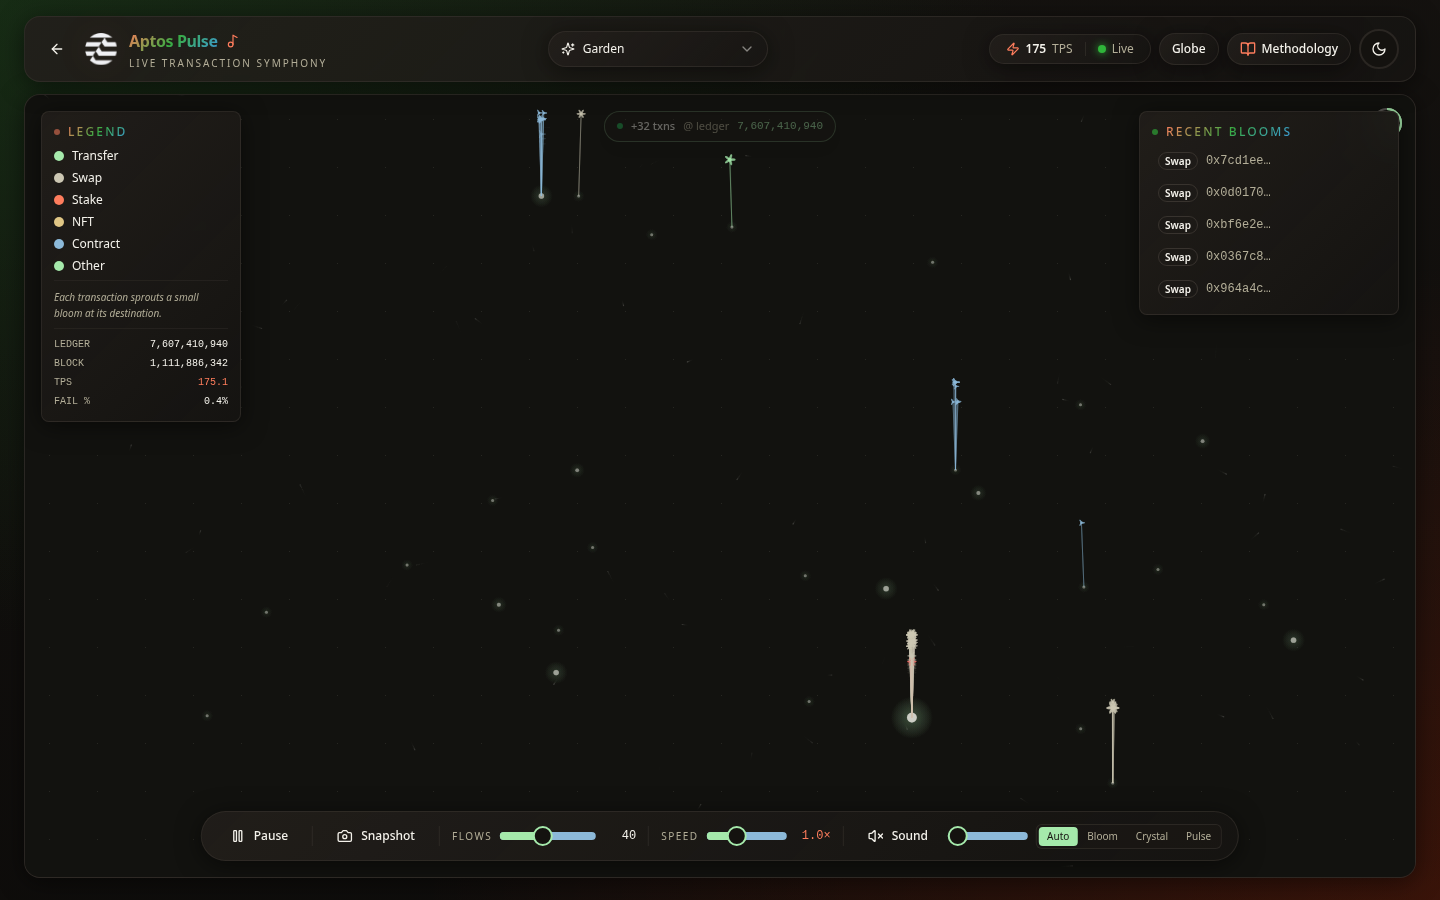
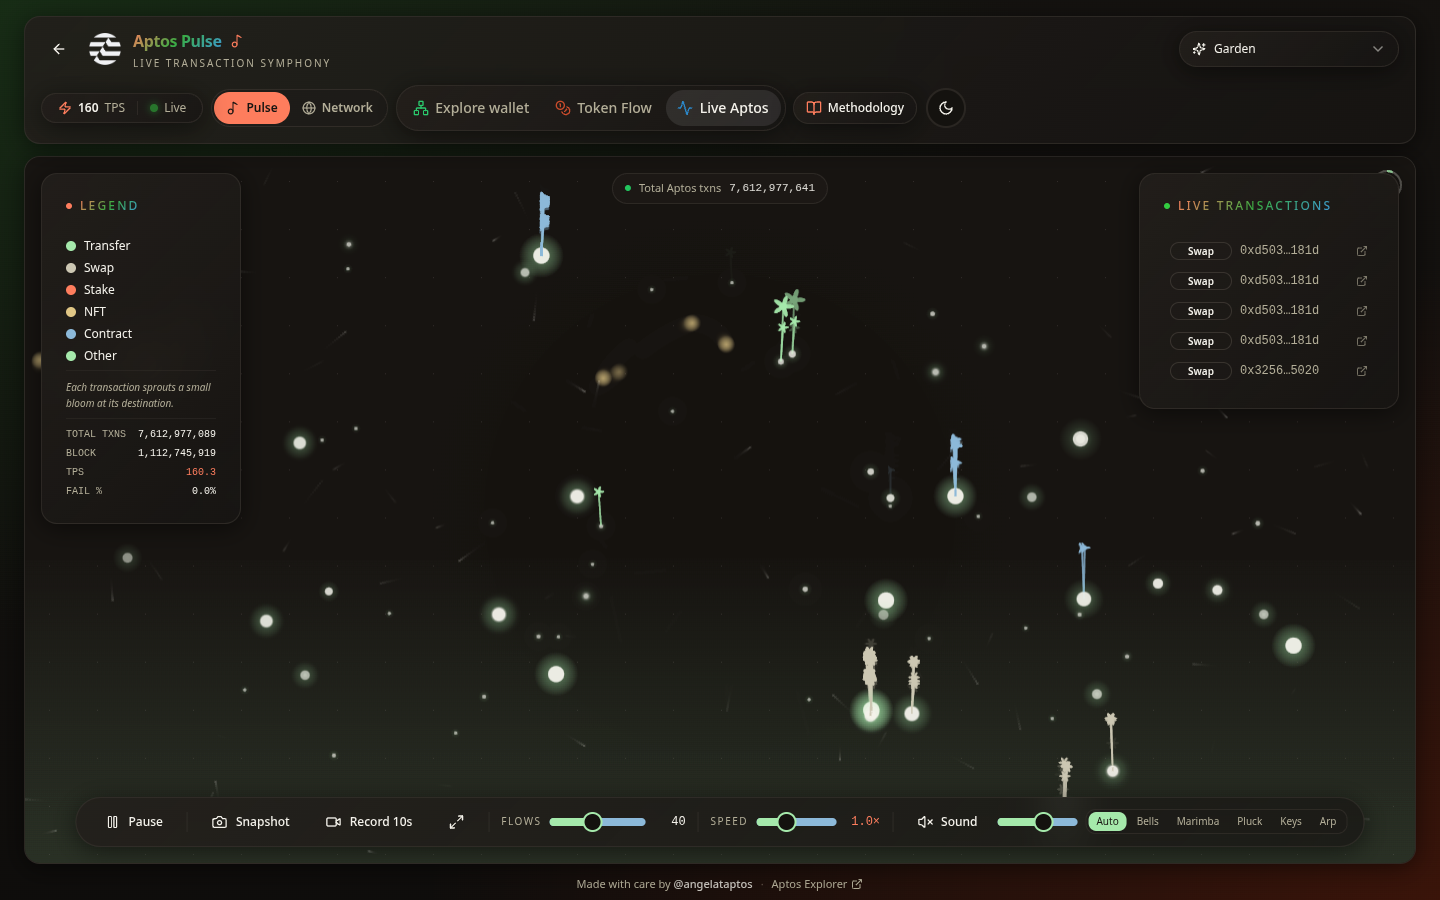
Refresh showcase for the current site: Move Map, Token Flow, Live Aptos, architecture and new screenshots

diff --git a/README.md b/README.md
@@ -1,60 +1,70 @@
 # Tracktos
 
-Aptos wallet intelligence. Paste any Aptos address and Tracktos turns its raw transactions into a living portrait: portfolio, NFTs, DeFi flows and on-chain identity. Then watch the whole network move in real time.
+A friendly, hobby-made window into Aptos. Tracktos started as a way to learn how the Aptos chain works by drawing it: who a wallet moves value with, where a token is flowing right now, and what mainnet looks and sounds like block by block.
 
-**[Open it in your browser → tracktos.com](https://tracktos.com)** · free, no sign-up, installable on your phone
+**[Open it → tracktos.com](https://tracktos.com)** · free, no sign-up, works on phones and installs like an app
 
-> Tracktos is in public beta. Expect rapid iteration.
+![Move Map](screenshots/movemap_desktop_dark.png)
 
-![Tracktos home](screenshots/home_desktop_dark.png)
+## What you can do
 
-## Features
+### Explore a wallet: Move Map
+Paste any Aptos address and its counterparties appear as living streams of value: bubbles sized by volume, flowing in and out of the wallet. Replay its history over time, spot the biggest moves as flares, expand two hops out, filter by token, period and kind (wallets, protocols, contracts), and share a card of the map. Known exchanges and protocols are labelled.
 
-- **Wallet overview**: liquid and staked APT, total USD value, 24h change, transaction count, first and latest activity
-- **Portfolio history** chart by day, week, month or year
-- **Token holdings** with balances, prices and USD value for APT and fungible assets
-- **NFT gallery** with collection details, purchase prices and a premium NFTs showcase
-- **Transaction analytics**: activity heatmap, transaction types, gas spending and top contracts
-- **DeFi activity**: swaps, staking, volume per protocol
-- **Wallet identity**: active days, wallet age, achievement badges and rankings
-- **Shareable cards**: export your wallet stats as an image
-- **Saved wallets** with quick switching, plus mainnet and testnet support
-- **Light and dark themes**
+### Token Flow
+Pick APT, USDC, USDt or any coin type / fungible asset and see its recent transfers as one picture: who is sending, who is receiving, and which exchanges and protocols sit in the middle, over the last hour, day or week.
 
-## Live Network (`/globe`)
+![Token Flow](screenshots/tokenflow_desktop_dark.png)
 
-A 3D globe of the Aptos validator set at its real geographic locations, with pulses for live transactions. Alongside it: live TPS, transaction type breakdown, epoch progress, a live transaction feed and network stats such as staking, supply, block height and total transactions.
+### Live Aptos
+- **Pulse**: mainnet's live transactions turned into light and sound. Several visual modes (Garden, Constellation, Orbit, Rain, Pulse Lines), each with its own in-key instrument palette that follows network activity, big APT and stablecoin moves called out as they happen, a Live Transactions feed linking to the explorer, ambient mode, and **Record 10s** to save a clip with sound.
+- **Network**: a 3D globe of the validator set. Every pulse is a real block, drawn from the validator that proposed it, alongside live TPS, epoch progress, transaction mix, staking and supply.
 
-![Live Network](screenshots/globe_desktop_dark.png)
+![Pulse](screenshots/pulse_desktop_dark.png)
+![Live Network](screenshots/network_desktop_light.png)
 
-## Aptos Pulse (`/pulse`)
+### Wallet explorer
+Balances and staking, portfolio history, token holdings, NFT gallery, transaction analytics, DeFi activity and a playful on-chain identity, with export to image or PDF. Mainnet and testnet.
 
-A live transaction symphony. Every visual and every sound is tied to one real mainnet transaction. Choose a mode (Constellation, Garden, Orbit, Pulse Lines or Rain), adjust flows and speed, turn on sound and take snapshots. A methodology panel explains exactly how each transaction is mapped.
+![Wallet](screenshots/wallet_desktop_dark.png)
 
-![Aptos Pulse](screenshots/pulse_desktop_dark.png)
+### And
+- **Nicknames** for wallets you follow, saved only in your browser
+- **Light and dark** themes
+- Designed for **phones** as carefully as for desktop
 
-## Install (`/install`)
+| | | |
+|---|---|---|
+| ![Home](screenshots/home_mobile_dark.png) | ![Move Map on a phone](screenshots/movemap_mobile_dark.png) | ![Pulse on a phone](screenshots/pulse_mobile_dark.png) |
+| ![Network on a phone](screenshots/network_mobile_dark.png) | ![Wallet on a phone, light](screenshots/wallet_mobile_light.png) | ![Home, light](screenshots/home_desktop_light.png) |
 
-Tracktos is a progressive web app. Add it to your home screen on iPhone, iPad or Android, launch it like a native app and keep using cached data offline.
+## How it fits together
 
-## On mobile
+```
+                    Browser (tracktos.com)
+          React single-page app, canvas & WebGL views
+              │                 │                 │
+              │ static files    │ /api/live*      │ /api/flows*
+              ▼                 │ /api/stats      ▼
+      Cloudflare Pages          │ /api/portfolio  tracktos-flows worker
+                                ▼                 · cron collector every 2 min
+                     tracktos-edge worker         · rolls token transfers into D1
+                     · one shared 2–30 s cache    │
+                       for every visitor          ▼
+                     · wallet stats endpoints   Cloudflare D1
+                                │                 │
+                                └────────┬────────┘
+                                         ▼
+                        Aptos APIs (fullnode REST + indexer GraphQL)
+```
 
-| Home | Live Network | Aptos Pulse |
-| --- | --- | --- |
-| ![Home](screenshots/home_mobile_dark.png) | ![Live Network](screenshots/globe_mobile_dark.png) | ![Aptos Pulse](screenshots/pulse_mobile_dark.png) |
+- **Cloudflare Pages** serves the app.
+- **tracktos-edge** reads live ledger info, recent transactions, block proposers and the validator set once every few seconds and shares that answer with everyone watching, so the live pages stay fast and well inside Aptos rate limits. The browser falls back to reading Aptos directly if it is ever unavailable.
+- **tracktos-flows** collects APT, USDC and USDt transfers on a schedule and keeps rolling windows in D1 for Token Flow.
+- Prices come from public market data.
 
-## Architecture
+## About
 
-- **Front end**: a React single-page app built with Vite and TypeScript, with 3D graphics for the globe and canvas plus Web Audio for Pulse
-- **Hosting**: static assets served from Cloudflare Pages, installable as a PWA
-- **Backend**: serverless functions that gather and aggregate wallet and market data
-- **Data**: the Aptos blockchain, read through its public fullnode and indexer APIs
+Tracktos is a personal side project for learning about Aptos, made with care by [@angelataptos](https://x.com/angelataptos). It is not affiliated with Aptos Labs or the Aptos Foundation. For the authoritative view of the chain, use the [official Aptos Explorer](https://explorer.aptoslabs.com/).
 
-## Credits
-
-Built by [@angelataptos](https://x.com/angelataptos)
-
-## License
-
-Copyright (c) 2026 Angel Fundora. All rights reserved. Source code is private.
-See [LICENSE](LICENSE).
+The source code is private. See [LICENSE](LICENSE): all rights reserved.
